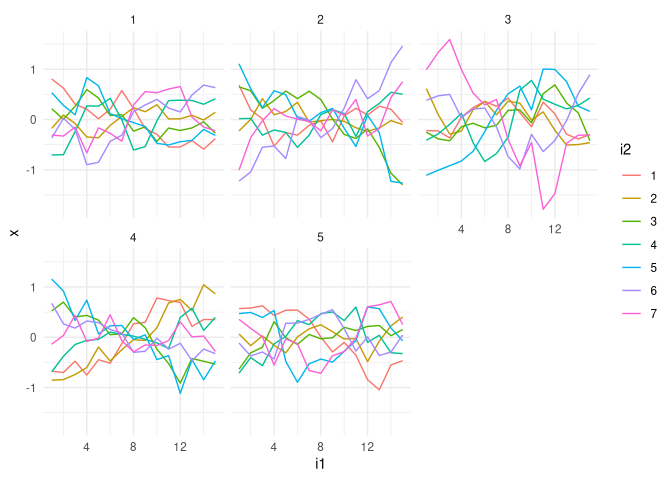
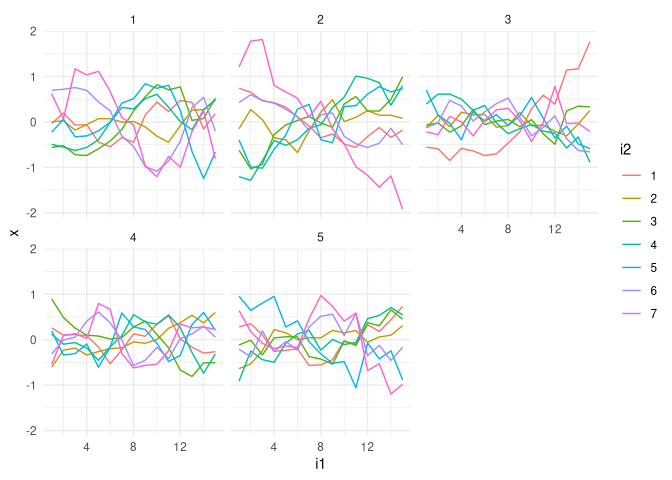
doc, demo updates

diff --git a/README.md b/README.md
@@ -171,16 +171,20 @@ k <- 5
 xx <- inla.qsample(
   n = k, 
   Q = Q + Diagonal(N, 1e-9), 
-  constr = cg12$f$extraconstr
+  constr = cg12$f$extraconstr, 
+  seed = 1
 )
+#> Warning in inla.qsample(n = k, Q = Q + Diagonal(N, 1e-09), constr =
+#> cg12$f$extraconstr, : Since 'seed!=0', parallel model is disabled and serial
+#> model is selected
 apply(xx, 2, summary)
 #>              sample:1      sample:2      sample:3      sample:4      sample:5
-#> Min.    -1.095347e+00 -1.432682e+00 -1.503795e+00 -1.237129e+00 -1.998315e+00
-#> 1st Qu. -2.381498e-01 -5.689962e-01 -3.056201e-01 -3.136942e-01 -2.401161e-01
-#> Median   5.298542e-02  3.426877e-02 -4.348082e-02  4.525474e-02  1.099955e-02
-#> Mean     2.014116e-12 -2.819154e-13  1.042859e-12  1.472012e-13 -1.334471e-12
-#> 3rd Qu.  2.820776e-01  4.682985e-01  3.242294e-01  3.322629e-01  3.721559e-01
-#> Max.     8.877810e-01  1.884833e+00  1.394109e+00  1.654145e+00  1.291929e+00
+#> Min.    -1.244648e+00 -1.921912e+00 -8.876440e-01 -8.104780e-01 -1.195814e+00
+#> 1st Qu. -4.227780e-01 -3.927394e-01 -2.466591e-01 -2.647159e-01 -2.574487e-01
+#> Median   8.474877e-03  5.005800e-02 -2.834700e-02  2.188409e-02 -2.665859e-02
+#> Mean    -1.054734e-12  3.951671e-13 -3.884818e-13  1.512079e-14  6.087083e-13
+#> 3rd Qu.  4.315217e-01  4.220450e-01  2.283570e-01  2.644288e-01  3.051810e-01
+#> Max.     1.166829e+00  1.814482e+00  1.762854e+00  8.952277e-01  9.702742e-01
 ```
 
 Plot each replicate per group
@@ -194,17 +198,17 @@ dataf <- data.frame(
   x = as.vector(xx)
 )
 head(dataf, 10)
-#>    i1 i2  i r           x
-#> 1   1  1  1 1  0.16166945
-#> 2   1  2  2 1  0.16487189
-#> 3   1  3  3 1 -0.55721074
-#> 4   1  4  4 1  0.12226728
-#> 5   1  5  5 1 -0.35311952
-#> 6   1  6  6 1  0.29788146
-#> 7   1  7  7 1  0.16364017
-#> 8   2  1  8 1 -0.09849950
-#> 9   2  2  9 1 -0.03702196
-#> 10  2  3 10 1 -0.52317234
+#>    i1 i2  i r            x
+#> 1   1  1  1 1 -0.034627319
+#> 2   1  2  2 1  0.002663663
+#> 3   1  3  3 1 -0.562134730
+#> 4   1  4  4 1 -0.493268793
+#> 5   1  5  5 1 -0.228196484
+#> 6   1  6  6 1  0.695164926
+#> 7   1  7  7 1  0.620398736
+#> 8   2  1  8 1  0.199000730
+#> 9   2  2  9 1  0.027308761
+#> 10  2  3 10 1 -0.520617245
 
 library(ggplot2)
 ggplot(dataf) + theme_minimal() + 
@@ -234,12 +238,12 @@ Summary of the intercept and $\tau$ posterior marginals
 ``` r
 fit$summary.fixed
 #>                 mean         sd 0.025quant 0.5quant 0.975quant     mode
-#> (Intercept) 3.008058 0.01040015   2.987657 3.008061   3.028444 3.008061
+#> (Intercept) 3.007856 0.01022422   2.987801 3.007859   3.027898 3.007859
 #>                      kld
-#> (Intercept) 8.211414e-11
+#> (Intercept) 7.646788e-11
 fit$summary.hyperpar
 #>                  mean        sd 0.025quant 0.5quant 0.975quant     mode
-#> Theta1 for i 1.248041 0.1072194   1.037124  1.24833   1.457372 1.248899
+#> Theta1 for i 1.665615 0.1160537   1.437599 1.665828   1.892466 1.666246
 ```
 
 Scatterplot of the posterior mode and simulated
@@ -261,11 +265,11 @@ pm.sigma <- inla.tmarginal(
 1/sqrt(tau)
 #> [1] 0.5
 inla.zmarginal(pm.sigma)
-#> Mean            0.536544 
-#> Stdev           0.0286005 
-#> Quantile  0.025 0.482727 
-#> Quantile  0.25  0.516699 
-#> Quantile  0.5   0.535662 
-#> Quantile  0.75  0.555392 
-#> Quantile  0.975 0.595044
+#> Mean            0.435548 
+#> Stdev           0.0251301 
+#> Quantile  0.025 0.388361 
+#> Quantile  0.25  0.418096 
+#> Quantile  0.5   0.434739 
+#> Quantile  0.75  0.452089 
+#> Quantile  0.975 0.487044
 ```
